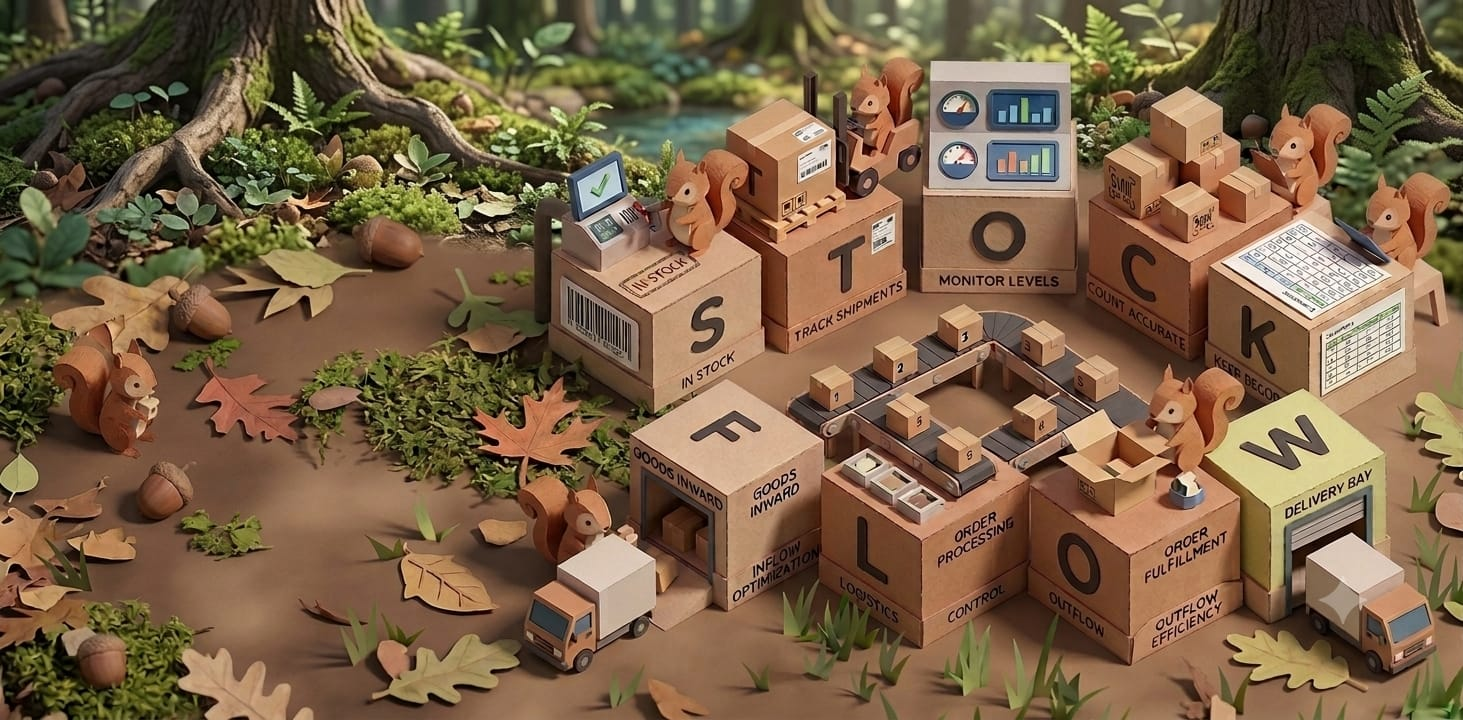
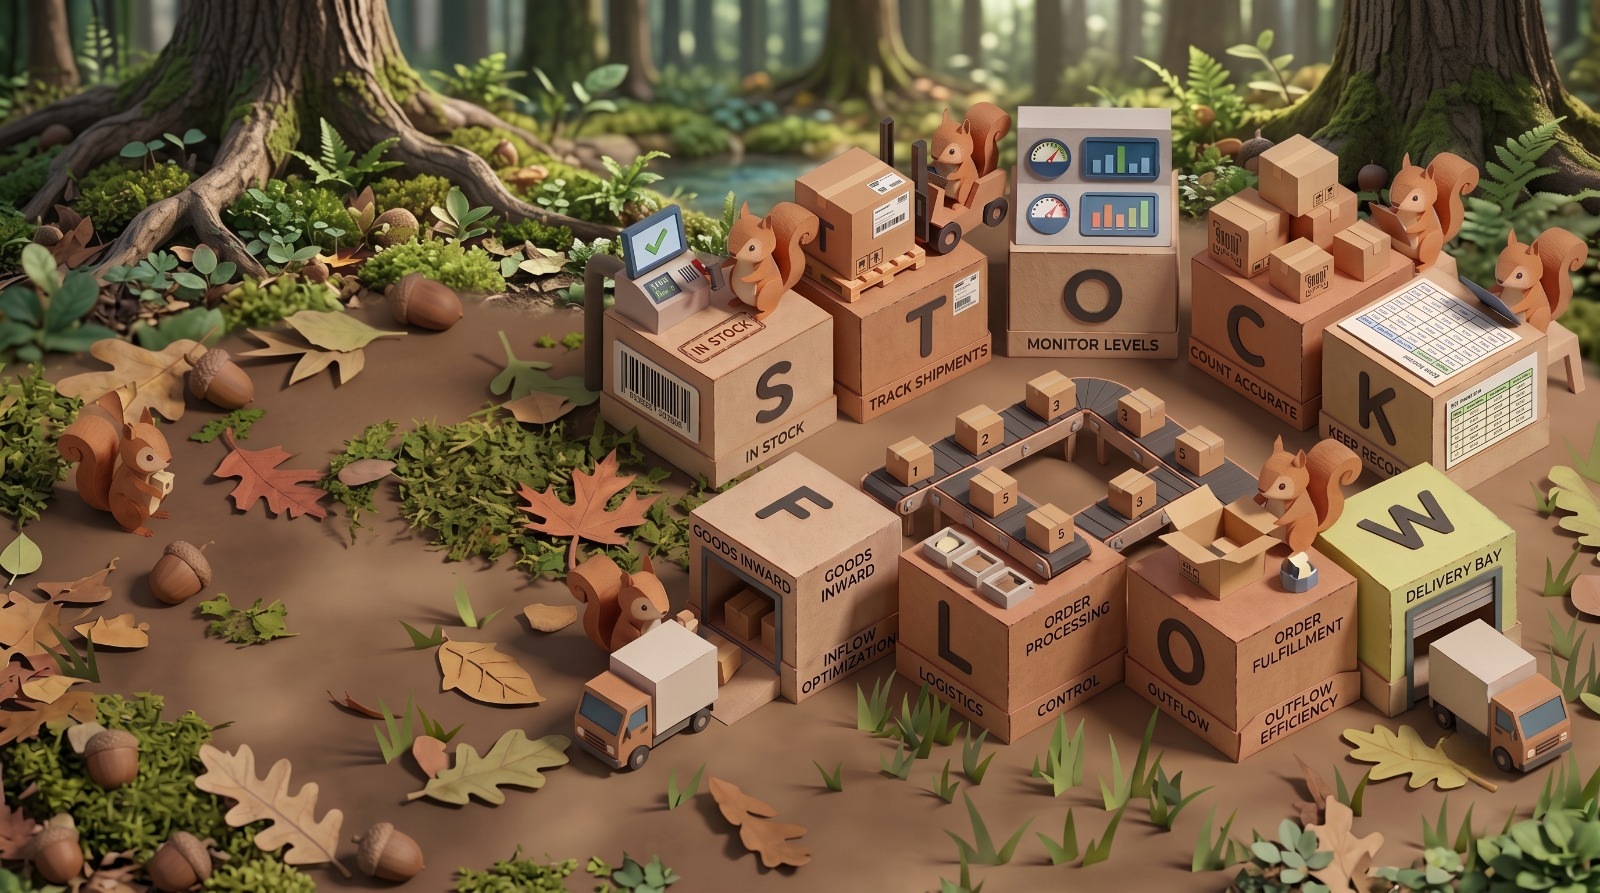
fix(Products): improve UI/UX

diff --git a/frontend/js/products.js b/frontend/js/products.js
@@ -207,7 +207,7 @@ const productView = createDataView({
         let btnIncele = `<button class="btn btn-sm btn-outline-info rounded-pill btn-incele me-1" title="Detayları Gör" data-id="${urun.id}"><i class="bi bi-eye"></i> Görüntüle</button>`;
         let btnDuzenle = hasPermission("Product.Edit") ? `<button class="btn btn-sm btn-outline-primary rounded-pill btn-duzenle me-1" data-id="${urun.id}">Düzenle</button>` : "";
         let btnSil = hasPermission("Product.Delete") ? `<button class="btn btn-sm btn-outline-danger rounded-pill btn-sil" data-id="${urun.id}">Sil</button>` : "";
-        let aksiyonButonlari = `<td class="text-end">${btnIncele} ${btnDuzenle} ${btnSil}</td>`;
+        let aksiyonButonlari = `<td class="text-end"><div class="d-flex gap-1 justify-content-end">${btnIncele} ${btnDuzenle} ${btnSil}</div></td>`;
 
         return `
             <tr>
